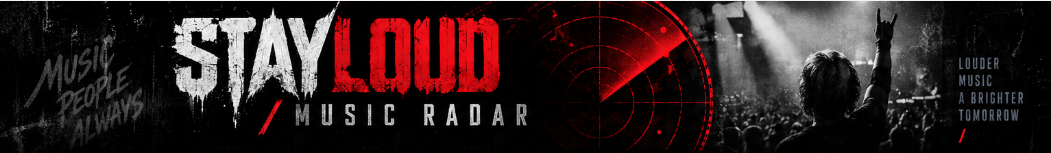
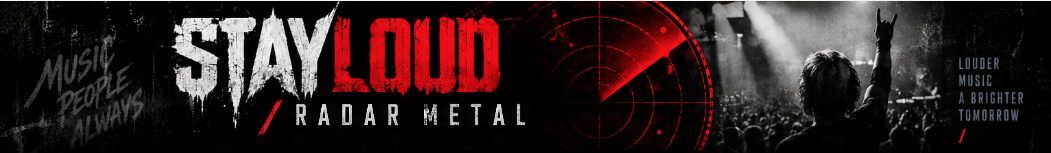
Bannière : RADAR METAL au lieu de MUSIC RADAR (v7.18.95)
Claude-Session: https://claude.ai/code/session_01JEY3z9piJCXFyAaQnvY5d2

Changed region(s): [[0.274, 0.6797, 0.5176, 0.8366]]

diff --git a/public/index.html b/public/index.html
@@ -414,10 +414,10 @@ body.sl-sheet-open{overflow:hidden}
 .profile-manage-lbl{font-size:12px;color:#8a939c;font-weight:700}
 .profile-del{margin-left:auto;border:1px solid #4a1d21;border-radius:999px;background:#120809;color:#ff8a92;font:700 12px Inter,Arial,sans-serif;padding:8px 12px;cursor:pointer;min-height:0}
 </style></head><body>
-<div id="authGate" class="auth-gate"><img class="auth-hero" src="/stayloud-banner.jpg?v=4" alt="STAYLOUD Music Radar"><div class="auth-box"><div class="auth-sub">Votre espace personnel</div><h1 id="authTitle" class="auth-title">Se connecter</h1><form id="authForm" class="auth-form"><input id="authUser" name="username" type="text" autocomplete="username" placeholder="Nom d'utilisateur ou e-mail" minlength="3" maxlength="32" required><input id="authEmail" name="email" type="email" autocomplete="email" placeholder="Adresse e-mail" required><input id="authPass" name="password" type="password" autocomplete="current-password" placeholder="Mot de passe" minlength="6" required><div id="authError" class="auth-error"></div><button id="authSubmit" class="btn" type="submit">SE CONNECTER</button></form><div id="authForgot" class="auth-forgot"><button type="button" onclick="showForgotPassword()">Mot de passe ou nom d’utilisateur oublié ?</button></div><div id="forgotBox" class="auth-extra"><div class="auth-forgot-help">Indiquez l’adresse e-mail de votre compte : vous recevrez votre <strong>nom d’utilisateur</strong> et un lien pour choisir un <strong>nouveau mot de passe</strong>.</div><input id="forgotEmail" type="email" autocomplete="email" placeholder="Votre adresse e-mail"><button id="forgotSubmit" class="btn" type="button" onclick="requestPasswordReset()">ENVOYER LE LIEN</button><div id="forgotMsg" class="auth-email-note"></div><button type="button" class="mini" onclick="hideForgotPassword()">Retour à la connexion</button></div><div id="authNote" class="auth-note">Chaque compte possède ses propres groupes, photos, descriptions, actualités et concerts associés.</div><div class="auth-switch"><span id="authSwitchText">Pas encore de compte ?</span> <button id="authSwitch" type="button">Créer un compte</button></div><a class="auth-privacy" href="/confidentialite.html" target="_blank" rel="noopener">Confidentialité</a></div></div>
-<div id="resetGate" class="auth-gate hidden"><img class="auth-hero" src="/stayloud-banner.jpg?v=4" alt="STAYLOUD Music Radar"><div class="auth-box"><div class="auth-sub">Récupération du compte</div><h1 class="auth-title">Nouveau mot de passe</h1><form id="resetForm" class="auth-form"><input id="resetPass" type="password" autocomplete="new-password" placeholder="Nouveau mot de passe" minlength="6" required><input id="resetPass2" type="password" autocomplete="new-password" placeholder="Confirmer le mot de passe" minlength="6" required><div id="resetError" class="auth-error"></div><button class="btn" type="submit">ENREGISTRER LE NOUVEAU MOT DE PASSE</button></form><div class="auth-note">Le lien de récupération est temporaire et utilisable une seule fois.</div></div></div>
+<div id="authGate" class="auth-gate"><img class="auth-hero" src="/stayloud-banner.jpg?v=5" alt="STAYLOUD Music Radar"><div class="auth-box"><div class="auth-sub">Votre espace personnel</div><h1 id="authTitle" class="auth-title">Se connecter</h1><form id="authForm" class="auth-form"><input id="authUser" name="username" type="text" autocomplete="username" placeholder="Nom d'utilisateur ou e-mail" minlength="3" maxlength="32" required><input id="authEmail" name="email" type="email" autocomplete="email" placeholder="Adresse e-mail" required><input id="authPass" name="password" type="password" autocomplete="current-password" placeholder="Mot de passe" minlength="6" required><div id="authError" class="auth-error"></div><button id="authSubmit" class="btn" type="submit">SE CONNECTER</button></form><div id="authForgot" class="auth-forgot"><button type="button" onclick="showForgotPassword()">Mot de passe ou nom d’utilisateur oublié ?</button></div><div id="forgotBox" class="auth-extra"><div class="auth-forgot-help">Indiquez l’adresse e-mail de votre compte : vous recevrez votre <strong>nom d’utilisateur</strong> et un lien pour choisir un <strong>nouveau mot de passe</strong>.</div><input id="forgotEmail" type="email" autocomplete="email" placeholder="Votre adresse e-mail"><button id="forgotSubmit" class="btn" type="button" onclick="requestPasswordReset()">ENVOYER LE LIEN</button><div id="forgotMsg" class="auth-email-note"></div><button type="button" class="mini" onclick="hideForgotPassword()">Retour à la connexion</button></div><div id="authNote" class="auth-note">Chaque compte possède ses propres groupes, photos, descriptions, actualités et concerts associés.</div><div class="auth-switch"><span id="authSwitchText">Pas encore de compte ?</span> <button id="authSwitch" type="button">Créer un compte</button></div><a class="auth-privacy" href="/confidentialite.html" target="_blank" rel="noopener">Confidentialité</a></div></div>
+<div id="resetGate" class="auth-gate hidden"><img class="auth-hero" src="/stayloud-banner.jpg?v=5" alt="STAYLOUD Music Radar"><div class="auth-box"><div class="auth-sub">Récupération du compte</div><h1 class="auth-title">Nouveau mot de passe</h1><form id="resetForm" class="auth-form"><input id="resetPass" type="password" autocomplete="new-password" placeholder="Nouveau mot de passe" minlength="6" required><input id="resetPass2" type="password" autocomplete="new-password" placeholder="Confirmer le mot de passe" minlength="6" required><div id="resetError" class="auth-error"></div><button class="btn" type="submit">ENREGISTRER LE NOUVEAU MOT DE PASSE</button></form><div class="auth-note">Le lien de récupération est temporaire et utilisable une seule fois.</div></div></div>
 <div class="sticky-shell">
-<header class="hero"><img class="hero-img" id="heroImg" src="/stayloud-banner.jpg?v=4" alt="STAYLOUD Music Radar"><div class="radar-sweep" id="radarSweep" aria-hidden="true"><div class="radar-dim"></div><div class="radar-beam"></div><span class="radar-blip b1"></span><span class="radar-blip b2"></span><span class="radar-blip b3"></span></div></header>
+<header class="hero"><img class="hero-img" id="heroImg" src="/stayloud-banner.jpg?v=5" alt="STAYLOUD Music Radar"><div class="radar-sweep" id="radarSweep" aria-hidden="true"><div class="radar-dim"></div><div class="radar-beam"></div><span class="radar-blip b1"></span><span class="radar-blip b2"></span><span class="radar-blip b3"></span></div></header>
 <div class="nav-wrap"><div class="wrap nav-container"><nav class="nav"><button class="active" data-s="radar"><span class="nav-icon"><i data-lucide="radar" aria-hidden="true"></i></span><span>Radar</span></button><button data-s="live"><span class="nav-icon"><i data-lucide="calendar-days" aria-hidden="true"></i></span><span>Concerts</span></button><button data-s="clips"><span class="nav-icon"><i data-lucide="film" aria-hidden="true"></i></span><span>Clips</span></button><button data-s="styles"><span class="nav-icon"><svg class="sl-explorer" viewBox="0 0 24 24" fill="none" stroke="currentColor" stroke-width="1.5" stroke-linecap="round" stroke-linejoin="round" aria-hidden="true"><path d="M17.81 3.75 19.67 1.5 22.0 2.29 18.71 4.56Z"/><path d="M11.37 10.59 9.7 7.12 6.71 9.0 7.75 11.47 2.0 15.44 7.38 17.45 9.36 22.5 12.01 16.17 14.26 15.37 12.58 11.67Z"/><path d="M17.93 3.85 11.64 10.83"/><path d="M18.59 4.45 12.31 11.43"/><path d="M8.2 13.39 10.12 15.12"/></svg></span><span>Styles/Groupes</span></button><button data-s="discover"><span class="nav-icon"><i data-lucide="compass" aria-hidden="true"></i></span><span>Découvrir</span></button></nav></div></div>
 </div>
 <div class="wrap top-controls">
@@ -1612,7 +1612,7 @@ $('artistForm').addEventListener('submit',e=>{e.preventDefault();try{$('name').b
  };
  const nav=on=>`<div class="tr-nav">${[['radar','Radar'],['cal','Concerts'],['film','Clips'],['guitar','Groupes'],['compass','Découvrir']].map(([i,t])=>`<span class="${t===on?'on':''}">${ICON[i]}<em>${t}</em></span>`).join('')}</div>`;
  const SLIDES=[
-  {t:'Bienvenue sur STAYLOUD',p:'Ton radar métal personnel : les <b>actualités</b>, les <b>concerts</b>, les <b>albums</b> et les <b>clips</b> de tes groupes préférés, au même endroit.',v:`<div class="tr-screen tr-welcome"><div class="tr-ban"><img src="/stayloud-banner.jpg?v=4" alt=""><div class="tr-sweep"></div></div><div class="tr-hint">Pour l’instant, aucun groupe n’est enregistré.</div></div>`},
+  {t:'Bienvenue sur STAYLOUD',p:'Ton radar métal personnel : les <b>actualités</b>, les <b>concerts</b>, les <b>albums</b> et les <b>clips</b> de tes groupes préférés, au même endroit.',v:`<div class="tr-screen tr-welcome"><div class="tr-ban"><img src="/stayloud-banner.jpg?v=5" alt=""><div class="tr-sweep"></div></div><div class="tr-hint">Pour l’instant, aucun groupe n’est enregistré.</div></div>`},
   {t:'1 · Ajoute tes groupes',p:'Va dans <b>Styles/Groupes</b>, tape le nom d’un groupe puis touche <b>+ Ajouter</b>. C’est grâce à tes groupes que STAYLOUD trouve les actus, les concerts et les clips.',v:`<div class="tr-screen"><div class="tr-title">STYLES / GROUPES</div><div class="tr-input"><span class="tr-typing">Gojira</span><i class="tr-caret"></i></div><div class="tr-suggest"><span class="tr-av"></span><b>Gojira</b><small>Death Metal</small></div><div class="tr-btn tr-press">+ AJOUTER</div>${nav('Groupes')}<div class="tr-finger tr-f-add"></div></div>`},
   {t:'2 · Le Radar',p:'Toutes les <b>actualités</b> de tes groupes des 6 derniers mois, 20 par page. Touche la pastille rouge pour lire l’article.',v:`<div class="tr-screen"><div class="tr-title">ACTUALITÉS RÉCENTES</div>${[['GOJIRA','Nouvel album annoncé pour 2027'],['LANDMVRKS','Tournée européenne : les dates'],['BEHEMOTH','Nergal en interview']].map(([b,x],i)=>`<div class="tr-card" style="animation-delay:${i*.35}s"><span class="tr-av"></span><div><em>${b}</em><b>${x}</b></div><span class="tr-pill">↗</span></div>`).join('')}${nav('Radar')}</div>`},
   {t:'3 · Les concerts',p:'<b>Mes groupes</b> : leurs concerts en France (et leurs premières parties). <b>Près de moi</b> et <b>Une ville</b> : tous les concerts metal autour de toi, dans le rayon choisi. <b>Agenda</b> : tes concerts marqués.',v:`<div class="tr-screen"><div class="tr-title">CONCERTS À VENIR</div><div class="tr-seg tr-seg4"><span>Mes groupes</span><span>Près de moi</span><span>Une ville</span><span>Agenda</span><i class="tr-seg-on"></i></div><div class="tr-chips"><span>10 km</span><span>20 km</span><span class="on">50 km</span><span>100 km</span></div><div class="tr-ev"><div class="tr-date"><b>18</b>OCT</div><div><em>GOJIRA <i class="tr-mine">Ton groupe</i></em><b>Le Zénith · Nantes · 38 km</b></div></div><div class="tr-ev" style="animation-delay:.4s"><div class="tr-date"><b>09</b>NOV</div><div><em>ARCH ENEMY</em><b>Le Trabendo · Paris · 21 km</b></div></div>${nav('Concerts')}</div>`},

diff --git a/public/sw.js b/public/sw.js
@@ -2,8 +2,8 @@
 // Pages: always from the network (latest version); a clear offline page otherwise.
 // Images / icons: served from the cache, refreshed in the background.
 // The API and other sites are never cached here.
-const CACHE='stayloud-v1';
-const SHELL=['/manifest.webmanifest','/icon-192.png','/icon-512.png','/apple-touch-icon.png','/favicon-32.png','/stayloud-banner.jpg?v=4'];
+const CACHE='stayloud-v2';
+const SHELL=['/manifest.webmanifest','/icon-192.png','/icon-512.png','/apple-touch-icon.png','/favicon-32.png','/stayloud-banner.jpg?v=5'];
 const OFFLINE=`<!doctype html><html lang="fr"><head><meta charset="utf-8"><meta name="viewport" content="width=device-width,initial-scale=1"><title>STAYLOUD – hors ligne</title><style>body{margin:0;min-height:100vh;display:grid;place-items:center;background:#060709;color:#e8ebee;font:16px/1.5 Inter,Arial,sans-serif;text-align:center;padding:24px}img{width:96px;height:96px;border-radius:22px}h1{font-size:20px;margin:18px 0 6px}p{color:#8a939c;margin:0 0 18px}button{border:0;border-radius:999px;background:#e50914;color:#fff;font:700 15px Inter,Arial,sans-serif;padding:12px 22px}</style></head><body><div><img src="/icon-192.png" alt=""><h1>Pas de connexion</h1><p>STAYLOUD a besoin d’Internet pour trouver les actus et les concerts.<br>Vérifie ta connexion puis réessaie.</p><button onclick="location.reload()">Réessayer</button></div></body></html>`;
 
 self.addEventListener('install',e=>{

diff --git a/src/server.js b/src/server.js
@@ -206,7 +206,7 @@ app.post('/api/auth/reset-password',async(req,res)=>{
  }catch(e){res.status(400).json({error:e.message})}
 });
 
-app.get("/api/health",(_,res)=>res.json({ok:true,version:"7.18.94",mode:"manual-city-source-selection",d1:d1ConfigStatus()}));
+app.get("/api/health",(_,res)=>res.json({ok:true,version:"7.18.95",mode:"manual-city-source-selection",d1:d1ConfigStatus()}));
 app.get("/api/artists",requireAuth,(req,res)=>res.json({artists:getArtists(req.user.id)}));
 app.get("/api/artists/:id/profile",requireAuth,async(req,res)=>{try{
  const a=ownedArtist(req,req.params.id);if(!a)return res.status(404).json({error:"introuvable"});

diff --git a/V7.18.95-NOTES.md b/V7.18.95-NOTES.md
@@ -1,0 +1,4 @@
+# V7.18.95 — Bannière « RADAR METAL »
+
+- Bannière : « MUSIC RADAR » remplacé par « RADAR METAL » sous le logo STAYLOUD, dans le même style. Les lettres R, A, D, M viennent de l'image d'origine, E, T, L sont redessinées à l'identique.
+- Lien de l'image passé à `?v=5` et cache du service worker passé à `stayloud-v2`, pour que les téléphones affichent la nouvelle bannière tout de suite.
